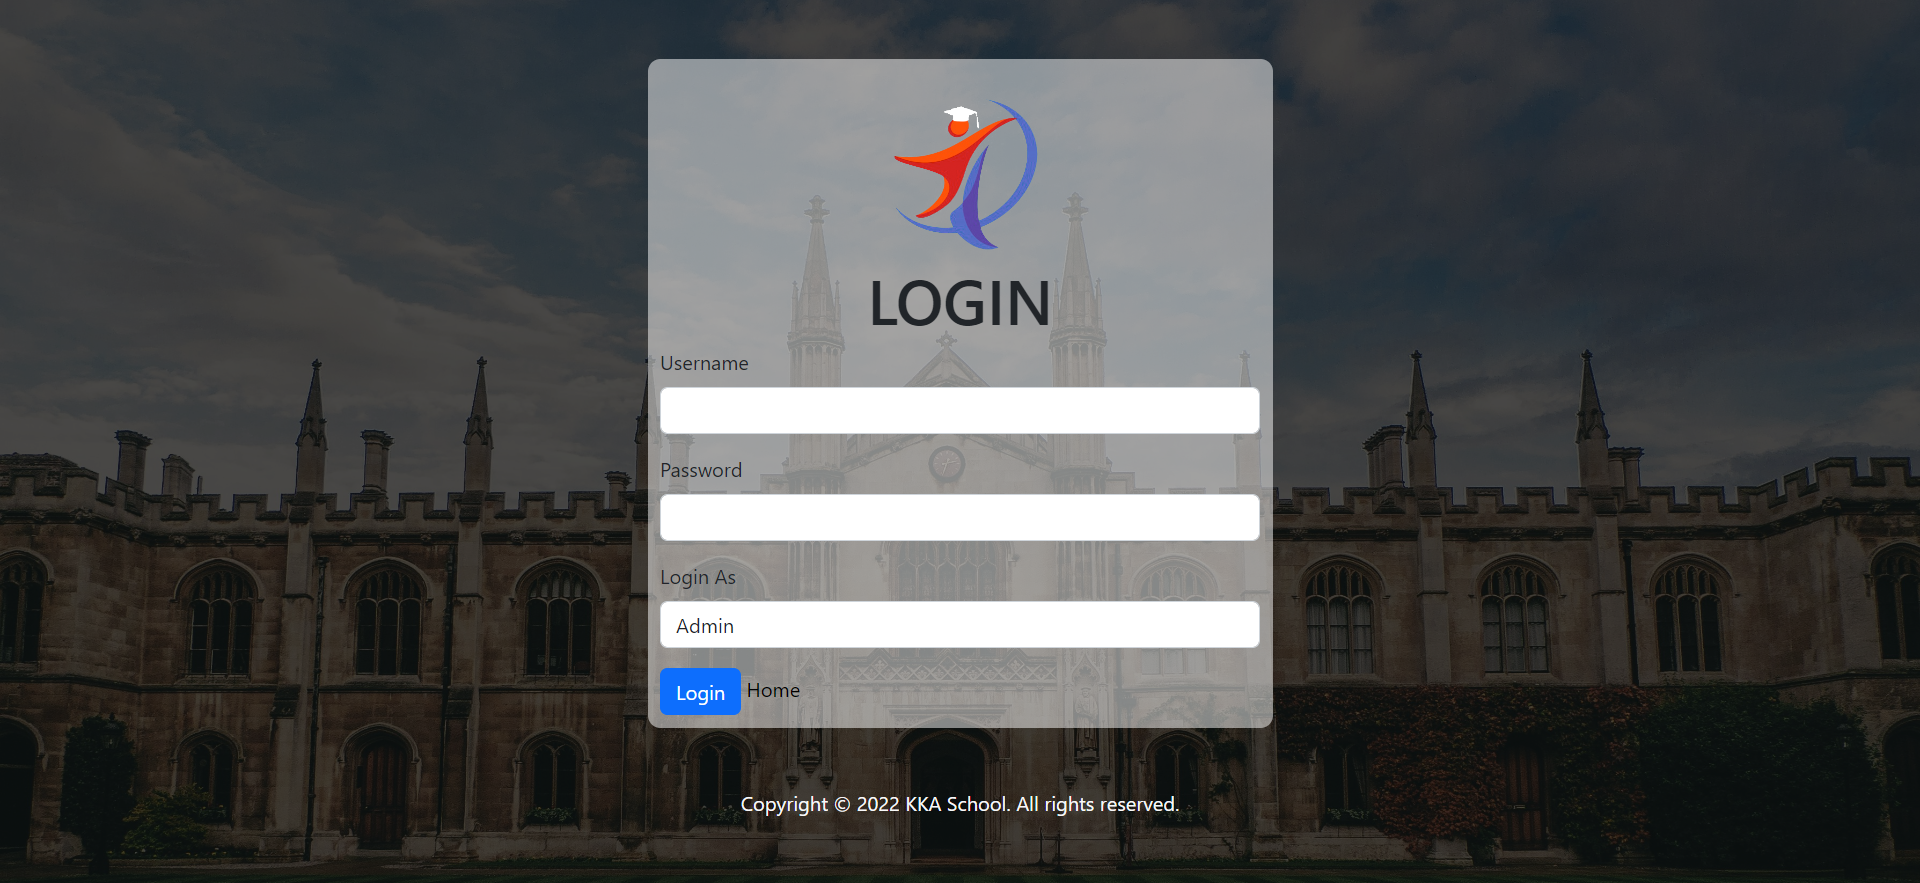
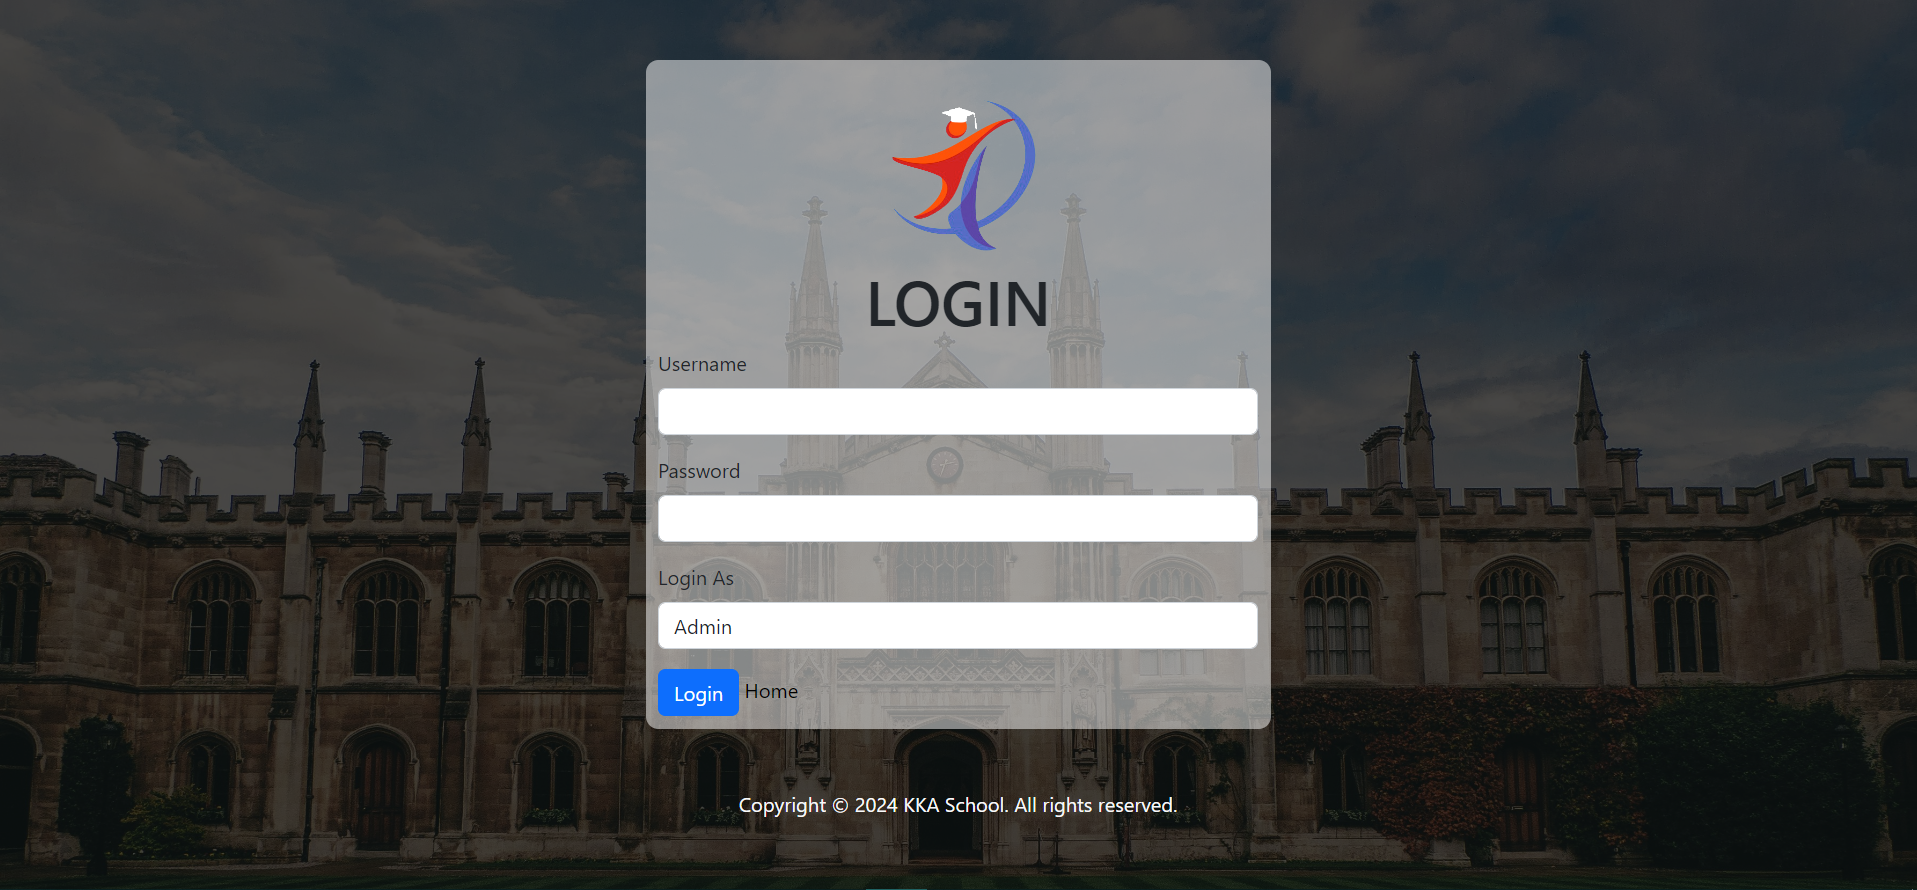
00

diff --git a/UI/login.php b/UI/login.php
@@ -55,7 +55,7 @@
         
         <br /><br />
         <div class="text-center text-light">
-        	Copyright &copy; 2022 KKA School. All rights reserved.
+        	Copyright &copy; 2024 KKA School. All rights reserved.
         </div>
 
     	</div>
